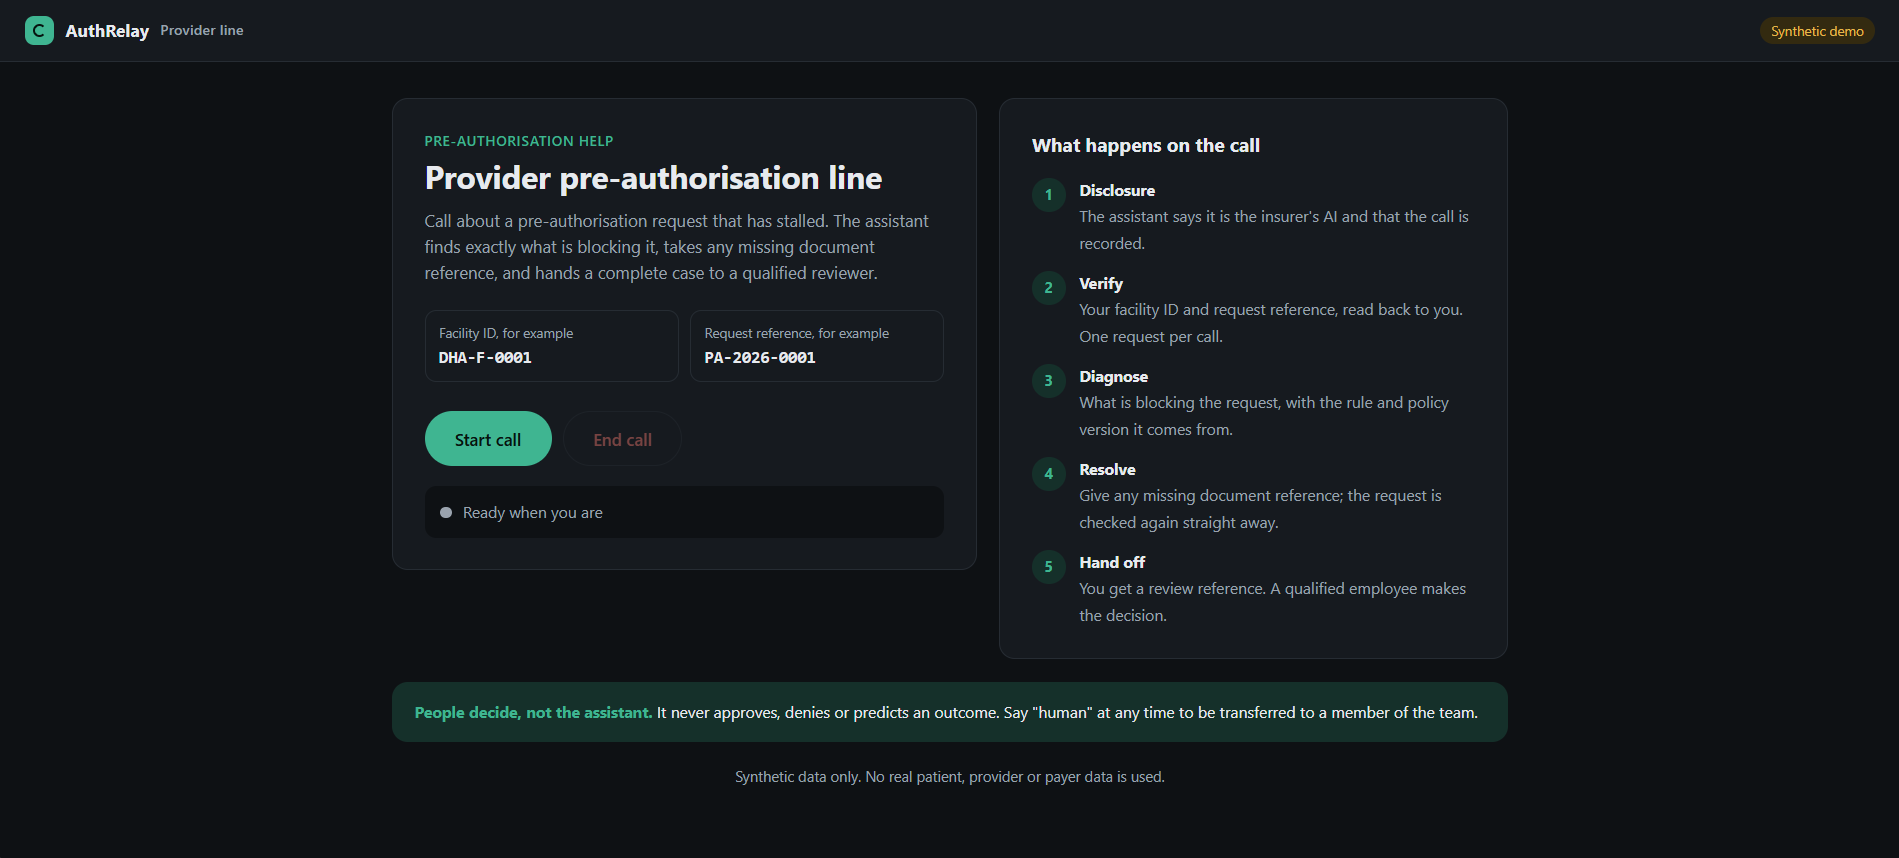
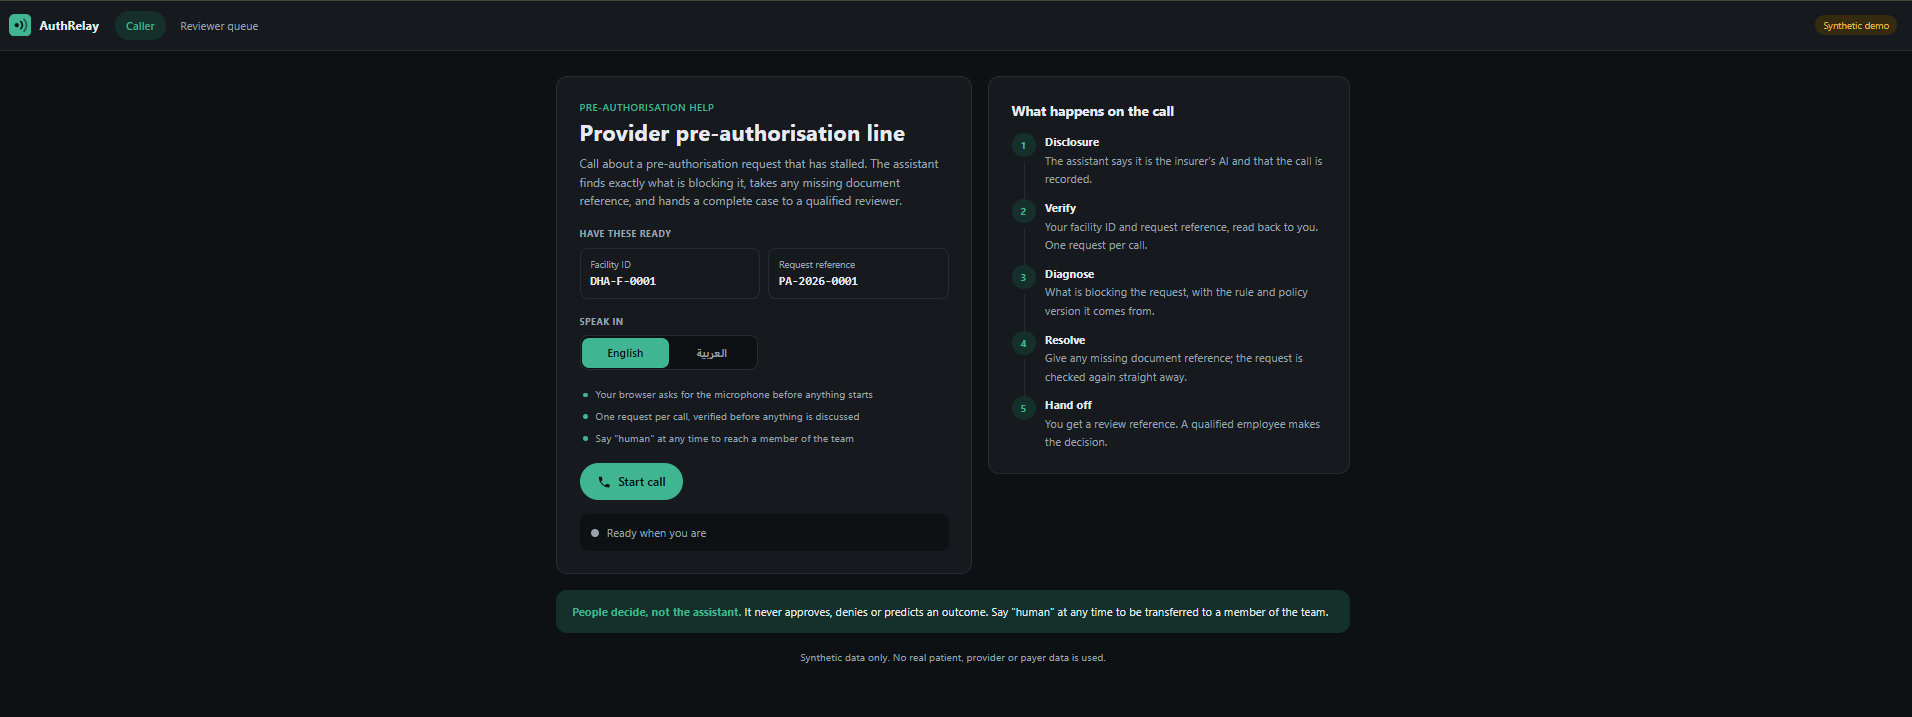
docs: add the architecture diagram and screens to the README
Shows the three zones and the human approval gate, plus the two pages
as they now look. Test counts brought up to date.

diff --git a/README.md b/README.md
@@ -19,6 +19,18 @@ patient, provider or payer data is present. eClaimLink / DHPO and the insurer au
 platform are represented by adapters against local fixtures; they are never contacted. Responses
 carry an `X-Data-Mode: synthetic` header.
 
+## Architecture
+
+Three zones: the caller on a web page, the ElevenLabs platform that runs the conversation, and
+this control plane, which holds the rules, the case store and the audit log and contains no LLM.
+Every tier reaches a qualified employee; no tool, token or tier lets the agent issue a decision.
+
+![Technical architecture: caller, ElevenLabs platform, and the insurer control plane with the
+human approval gate](docs/screenshots/architecture.png)
+
+[ARCHITECTURE.md](ARCHITECTURE.md) walks through the same picture in words, including where each
+guardrail lives in the code.
+
 ## Screens
 
 **Provider call page** (`/`): where the clinic's approval executive starts the call. It shows what
@@ -26,11 +38,14 @@ to have ready and the five steps the call follows.
 
 ![Provider call page](docs/screenshots/call.png)
 
-**Reviewer queue** (`/review`): where a qualified person decides each case. Cases come ordered by
-tier with their open and resolved blockers, and the decision buttons stay locked until the call
+**Reviewer queue** (`/review`): every review across all clinics, searchable and filtered by tier or
+clinic, with a separate view of what has already been decided. Opening a case gives the whole
+record: why it is here, the rules it was judged against with the failed ones marked, the call
+transcript, and the audit trail of every tool call. The decision stays locked until the call
 transcript is stored.
 
-![Reviewer queue](docs/screenshots/review.png)
+![A case in the reviewer queue: blockers, rules applied, the call transcript and the decision
+bar](docs/screenshots/review.png)
 
 ## Layout
 
@@ -118,19 +133,19 @@ endpoints. `/` is the call page, `/review` the reviewer queue.
 ```bash
 ruff check .                                   # lint
 mypy                                           # types
-python -m unittest discover -s tests -t . -v   # 86 tests
+python -m unittest discover -s tests -t . -v   # 104 tests
 ```
 
 All three run in CI on every push.
 
 ## Status
 
-The control plane runs and its guardrails are tested: **86 tests**, lint and types clean.
+The control plane runs and its guardrails are tested: **104 tests**, lint and types clean.
 
 | Suite | Tests | Covers |
 |---|---|---|
 | `tests/unit/` | 10 | policies, normalisation, signatures, bearer check, rate limiter |
-| `tests/integration/` | 69 | every use case on a real SQLite store; HTTP, pages, webhook, page token |
+| `tests/integration/` | 87 | every use case on a real SQLite store; HTTP, pages, webhook, page token, reviewer session |
 | `tests/architecture/` | 7 | the layer rules in docs/project-structure.md |
 | Voice agent | none yet | configured on the ElevenLabs platform during the build sprint |
 

diff --git a/ARCHITECTURE.md b/ARCHITECTURE.md
@@ -2,6 +2,9 @@
 
 Synthetic data only.
 
+![Technical architecture: caller, ElevenLabs platform, and the insurer control plane with the
+human approval gate](docs/screenshots/architecture.png)
+
 ## The problem
 
 A clinic submits a pre-authorisation request through eClaimLink. It stalls, usually because a
